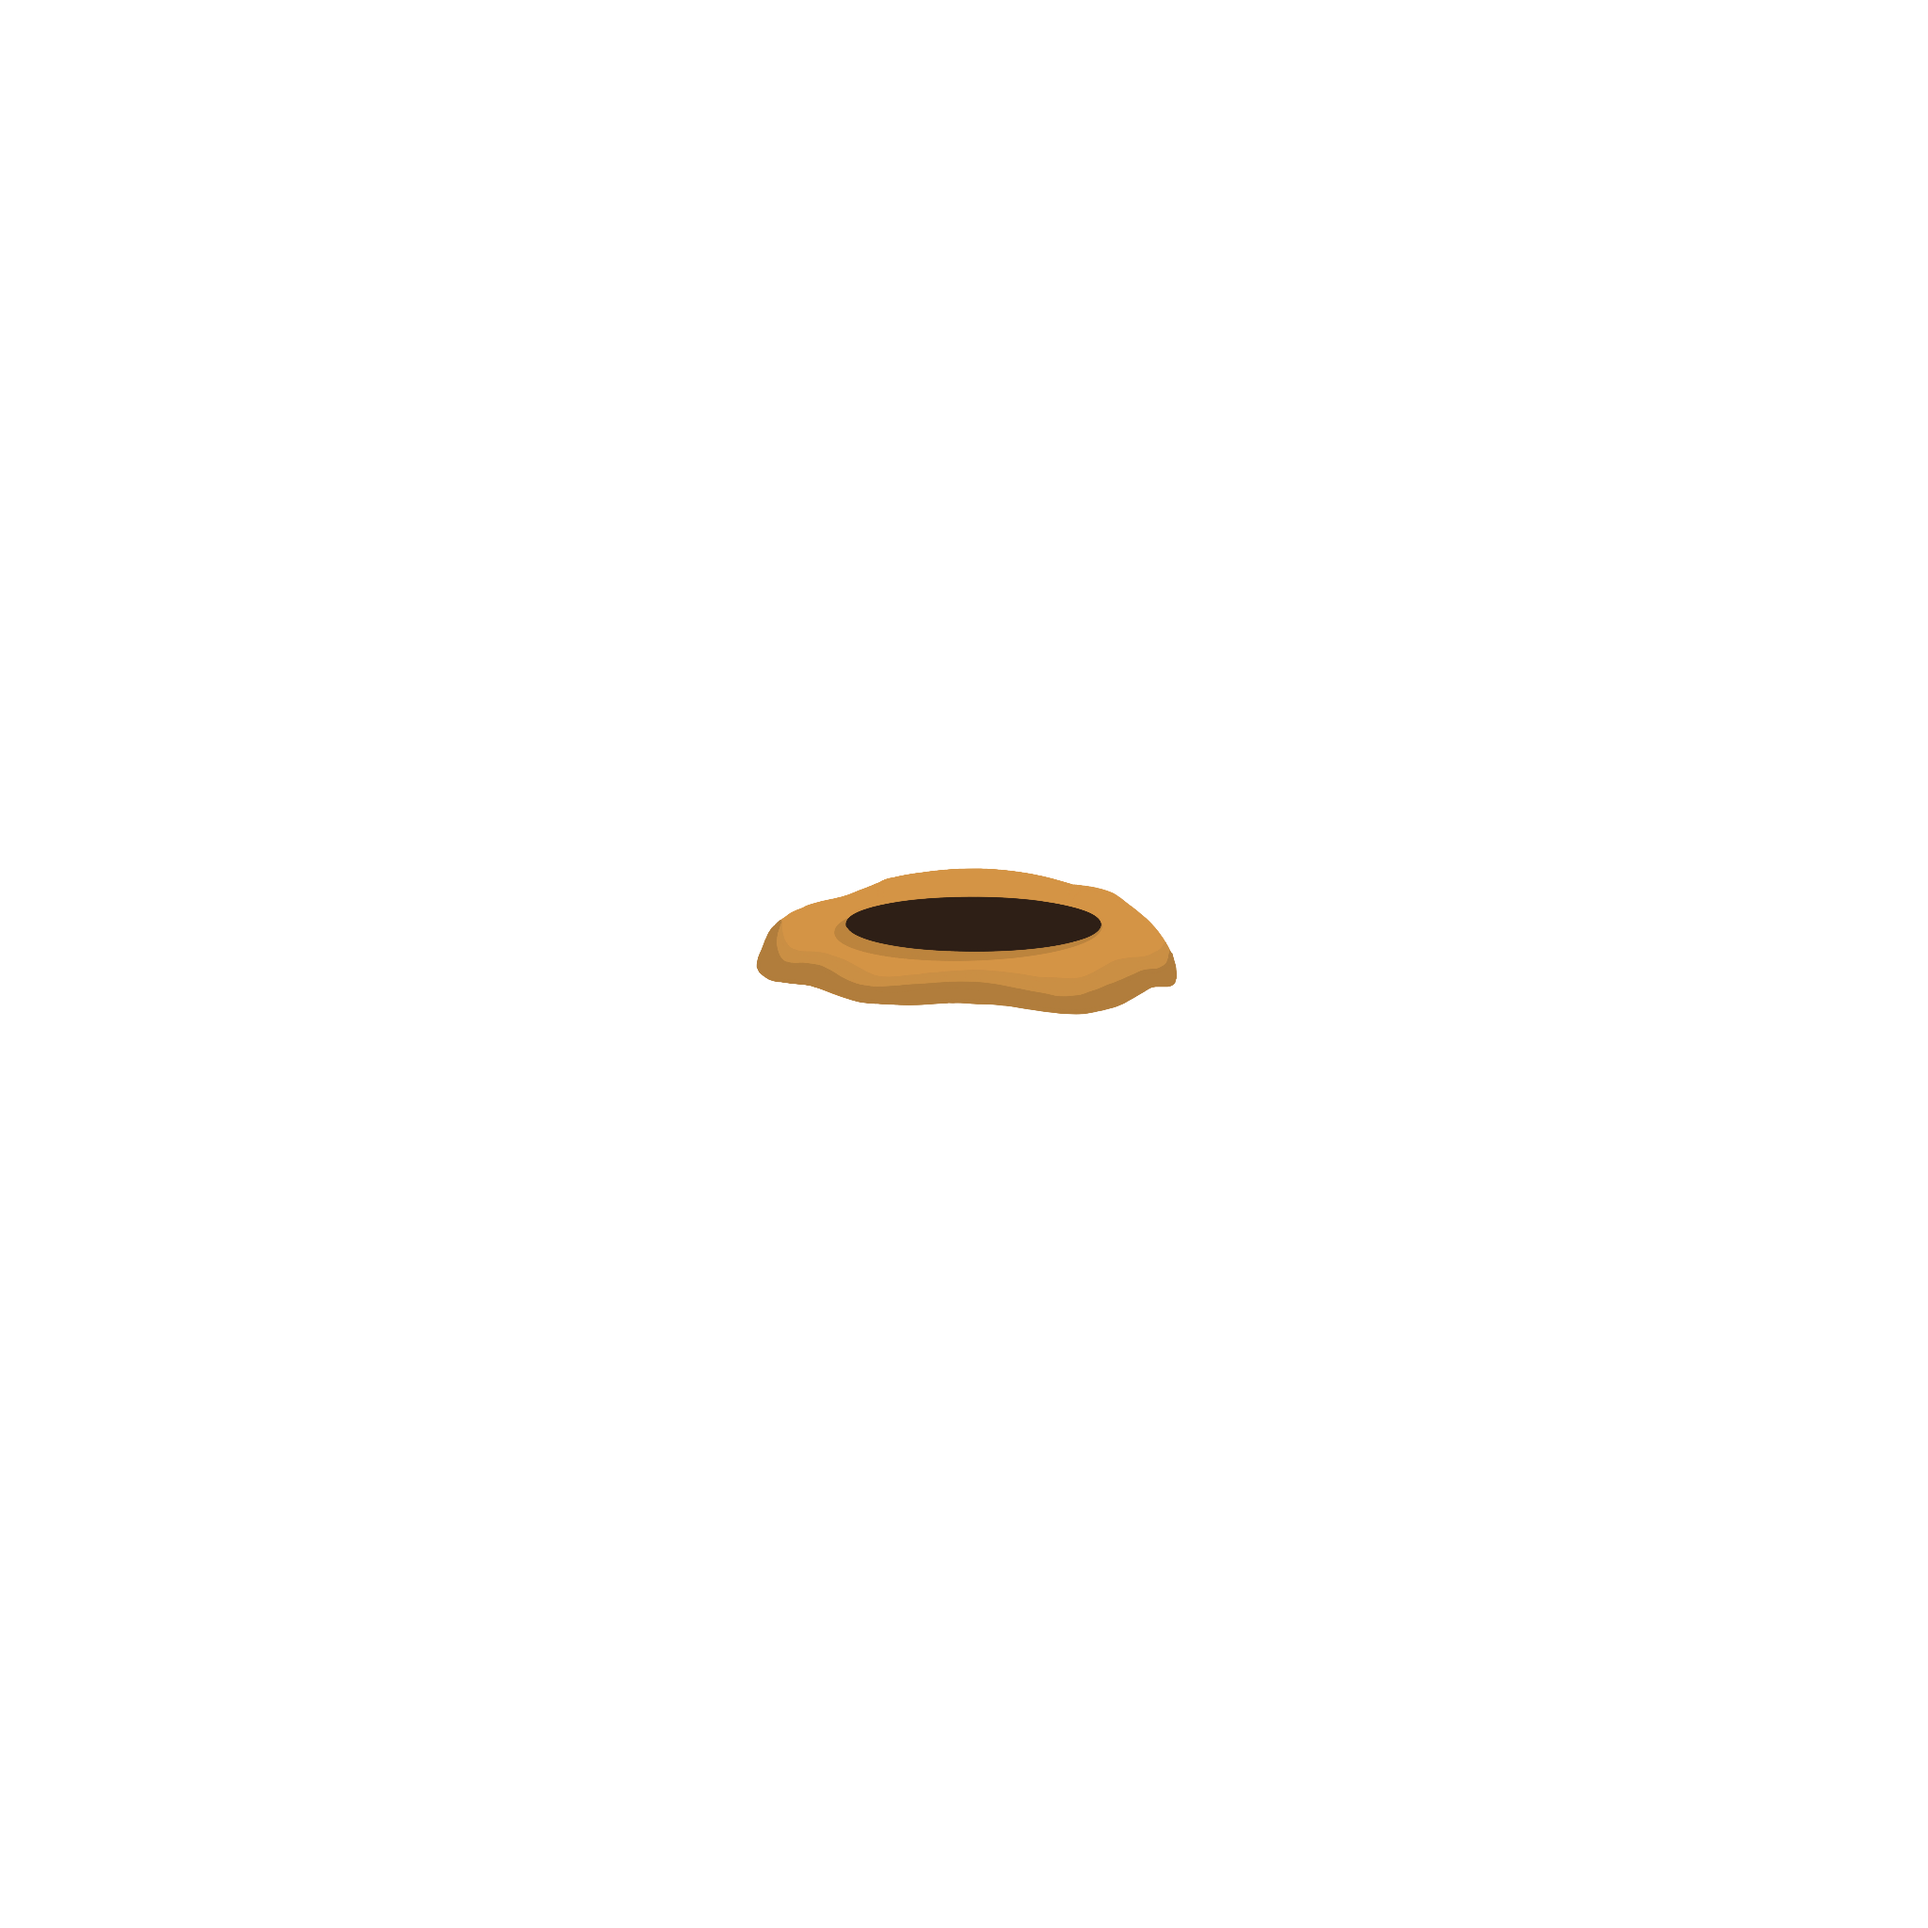
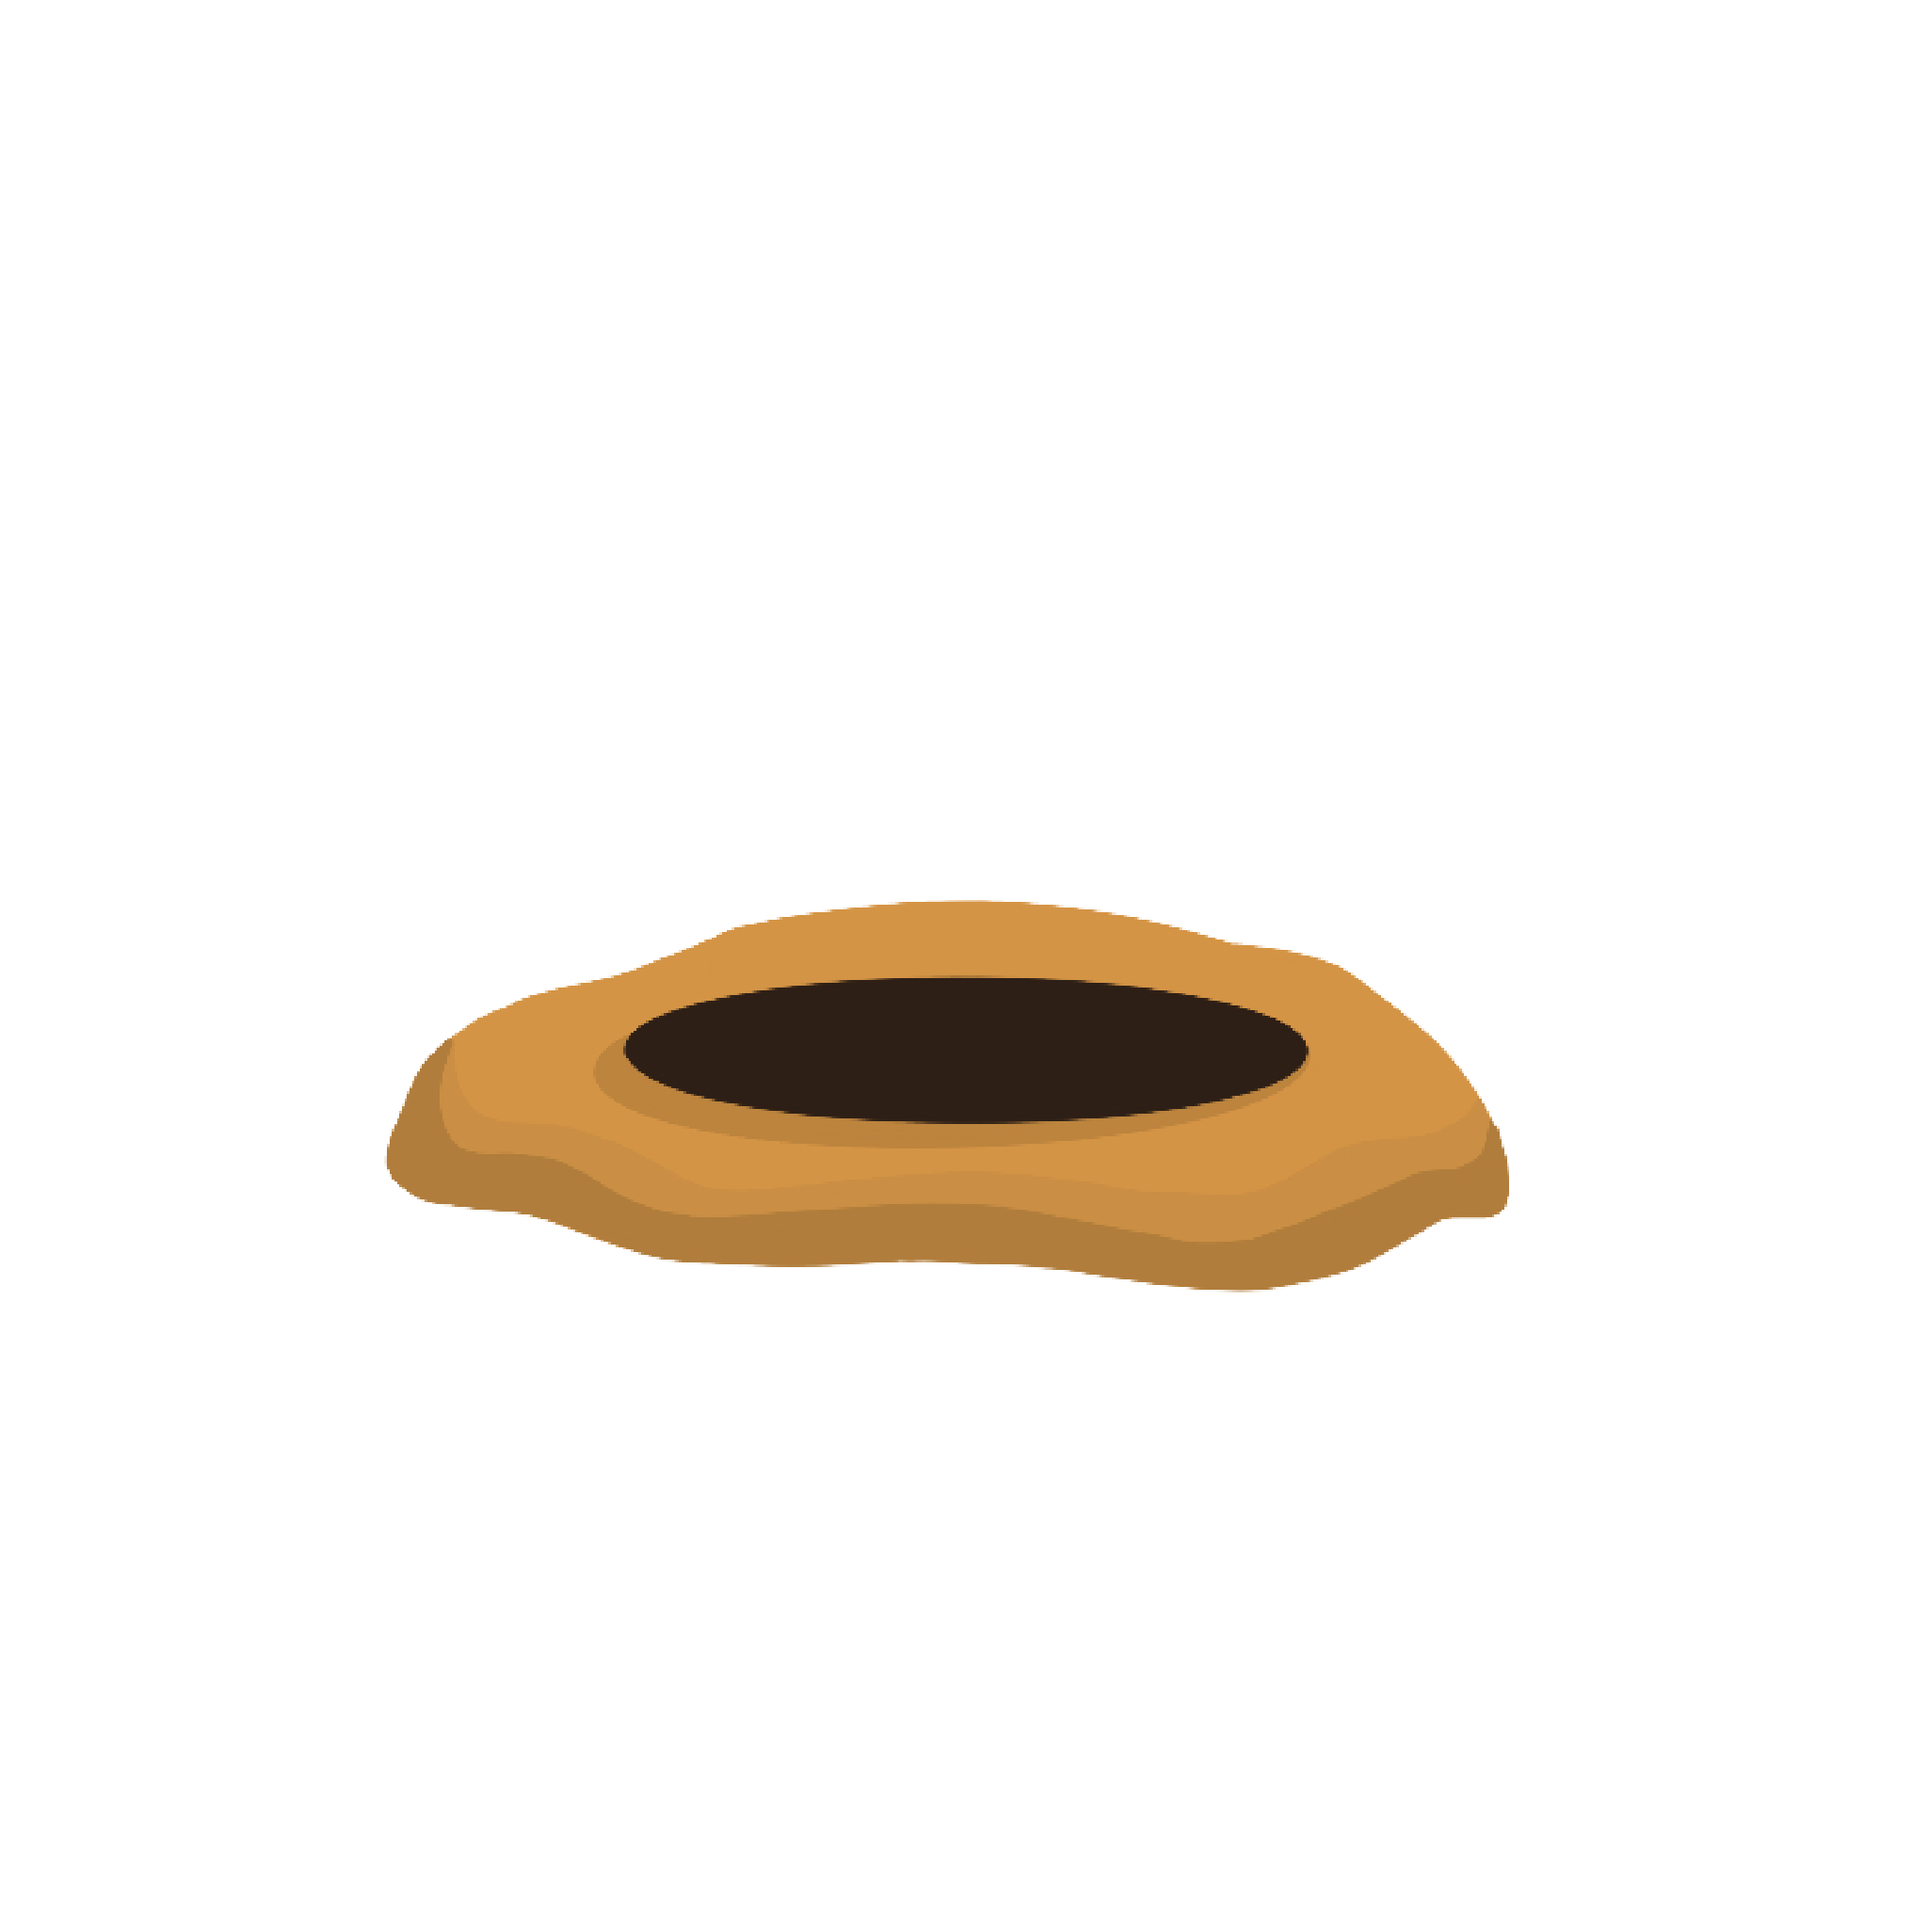
feat: working pngs, too small

Changed region(s): [[0.1875, 0.4375, 0.7812, 0.6875]]

diff --git a/server.js b/server.js
@@ -8,7 +8,8 @@ const wss = new WebSocket.Server({ server });
 
 let gameState = {
   molePositions: [false, false, false, false, false, false],
-  score: 0,
+  whackerScore: 0, 
+  moleScore: 0 
 };
 
 app.use(express.static('public'));
@@ -16,17 +17,8 @@ app.use(express.static('public'));
 wss.on('connection', (ws) => {
   console.log('Client connected');
 
-//   const WebSocket = require('ws');
-// const wss = new WebSocket.Server({ server });
-
-// wss.on('connection', function connection(socket) {
-//   socket.on('message', function incoming(data) {
-//     console.log('Incoming data ', data);
-//   });
-// });
-
   ws.on('message', (message) => {
-    console.log('Message received on server:', message);12
+    console.log('Message received on server:', message);
     const { role, action, hole } = JSON.parse(message);
 
     if (role === 'mole' && action === 'pop') {
@@ -36,11 +28,11 @@ wss.on('connection', (ws) => {
         setTimeout(() => {
           gameState.molePositions[hole] = false;
           broadcastGameState();
-        }, 400); // how long it stays up -- also build a cooldown so wombat cannot spam buttons
+        }, 400); // how long the mole is up
       }
     } else if (role === 'whacker' && action === 'whack') {
       if (gameState.molePositions[hole]) {
-        gameState.score++;
+        gameState.whackerScore++;  
         gameState.molePositions[hole] = false;
         broadcastGameState();
       }
@@ -49,7 +41,14 @@ wss.on('connection', (ws) => {
 });
 
 function broadcastGameState() {
-  const state = JSON.stringify({ type: 'update', gameState });
+  const state = JSON.stringify({
+    type: 'update',
+    gameState: {
+      molePositions: gameState.molePositions,
+      whackerScore: gameState.whackerScore,
+      moleScore: gameState.moleScore
+    }
+  });
   console.log('Broadcasting game state:', state);
   wss.clients.forEach((client) => {
     if (client.readyState === WebSocket.OPEN) {

diff --git a/public/app.css b/public/app.css
@@ -15,26 +15,26 @@ body {
   display: grid;
   grid-template-columns: repeat(3, 1fr); 
   grid-template-rows: repeat(2, 1fr); 
-  width: 100%; /* Adjust width as needed */
-  height: 45vh; /* Adjust height based on the desired spacing */
+  width: 100%; 
+  height: 45vh; 
   justify-content: center;
   align-content: center;
-  position: relative; /* Add positioning context */
-  top: 50%; /* Adjust positioning to center the board vertically */
-  transform: translateY(-50%); /* Adjust to account for the height of the game board */
+  position: relative; 
+  top: 50%; 
+  transform: translateY(-50%);
 }
 
 .hole {
   width: 125px;
   height: 100px; 
   margin-left: 40%;
-  background-image: url('/assets/hole.png'); 
+  background-image: url('/assets/newHole.png'); 
   background-size: cover;
   display: flex;
   justify-content: center;
   align-items: center;
   cursor: pointer;
-  border: 2px solid #b92020;
+  /* border: 2px solid #b92020; */
   border-radius: 50%; 
   user-select: none;
 }
@@ -47,7 +47,23 @@ body {
 .hole:nth-child(6) { grid-column: 3; grid-row: 2; }
 
 .mole {
-  /* background-image: url('/assets/molehole.png'); */
-  background-color: black;
+  background-image: url('/assets/newMole.png');
+  /* background-color: black; */
   background-size: cover;
+}
+
+#scoreboard {
+  position: absolute;
+  top: 10px;
+  left: 10px;
+  color: white;
+  font-size: 1.5em;
+}
+
+#timer {
+  position: absolute;
+  top: 10px;
+  right: 10px;
+  color: white;
+  font-size: 1.5em;
 }

diff --git a/public/game.js b/public/game.js
@@ -1,3 +1,8 @@
+let whackerScore = 0;
+let moleScore = 0;
+let activeMoles = 0;
+const maxMoles = 2;
+
 const ws = new WebSocket('ws://localhost:3000');
 
 ws.onopen = () => {
@@ -32,13 +37,29 @@ document.addEventListener('keydown', (event) => {
 });
 
 function updateGameBoard(gameState) {
-  console.log('Updating game board:', gameState);
   const holes = document.querySelectorAll('.hole');
   holes.forEach((hole, index) => {
-    if (gameState.molePositions[index]) {
-      hole.classList.add('mole');
-    } else {
-      hole.classList.remove('mole');
-    }
+    hole.classList.toggle('mole', gameState.molePositions[index]);
   });
+
+  document.getElementById('whackerScore').textContent = `Whacker: ${gameState.whackerScore}`;
+  document.getElementById('moleScore').textContent = `Mole: ${gameState.moleScore}`;
 }
+
+function startTimer(duration, display) {
+  let timer = duration, seconds;
+  setInterval(function () {
+    seconds = parseInt(timer % 60, 10);
+    display.textContent = seconds;
+
+    if (--timer < 0) {
+      timer = duration;
+    }
+  }, 1000);
+}
+
+window.onload = function () {
+  let thirtySeconds = 30,
+      display = document.getElementById('timer');
+  startTimer(thirtySeconds, display);
+};

diff --git a/public/index.html b/public/index.html
@@ -6,6 +6,12 @@
     <link rel="stylesheet" href="app.css">
 </head>
 <body>
+  <div id="scoreboard">
+    <div id="whackerScore">Whacker: 0</div>
+    <div id="moleScore">Mole: 0</div>
+  </div>
+  <div id="timer">30</div>
+
     <div id="gameBoard">
       <div class="hole mole" data-key="a"></div>
       <div class="hole mole" data-key="s"></div>
